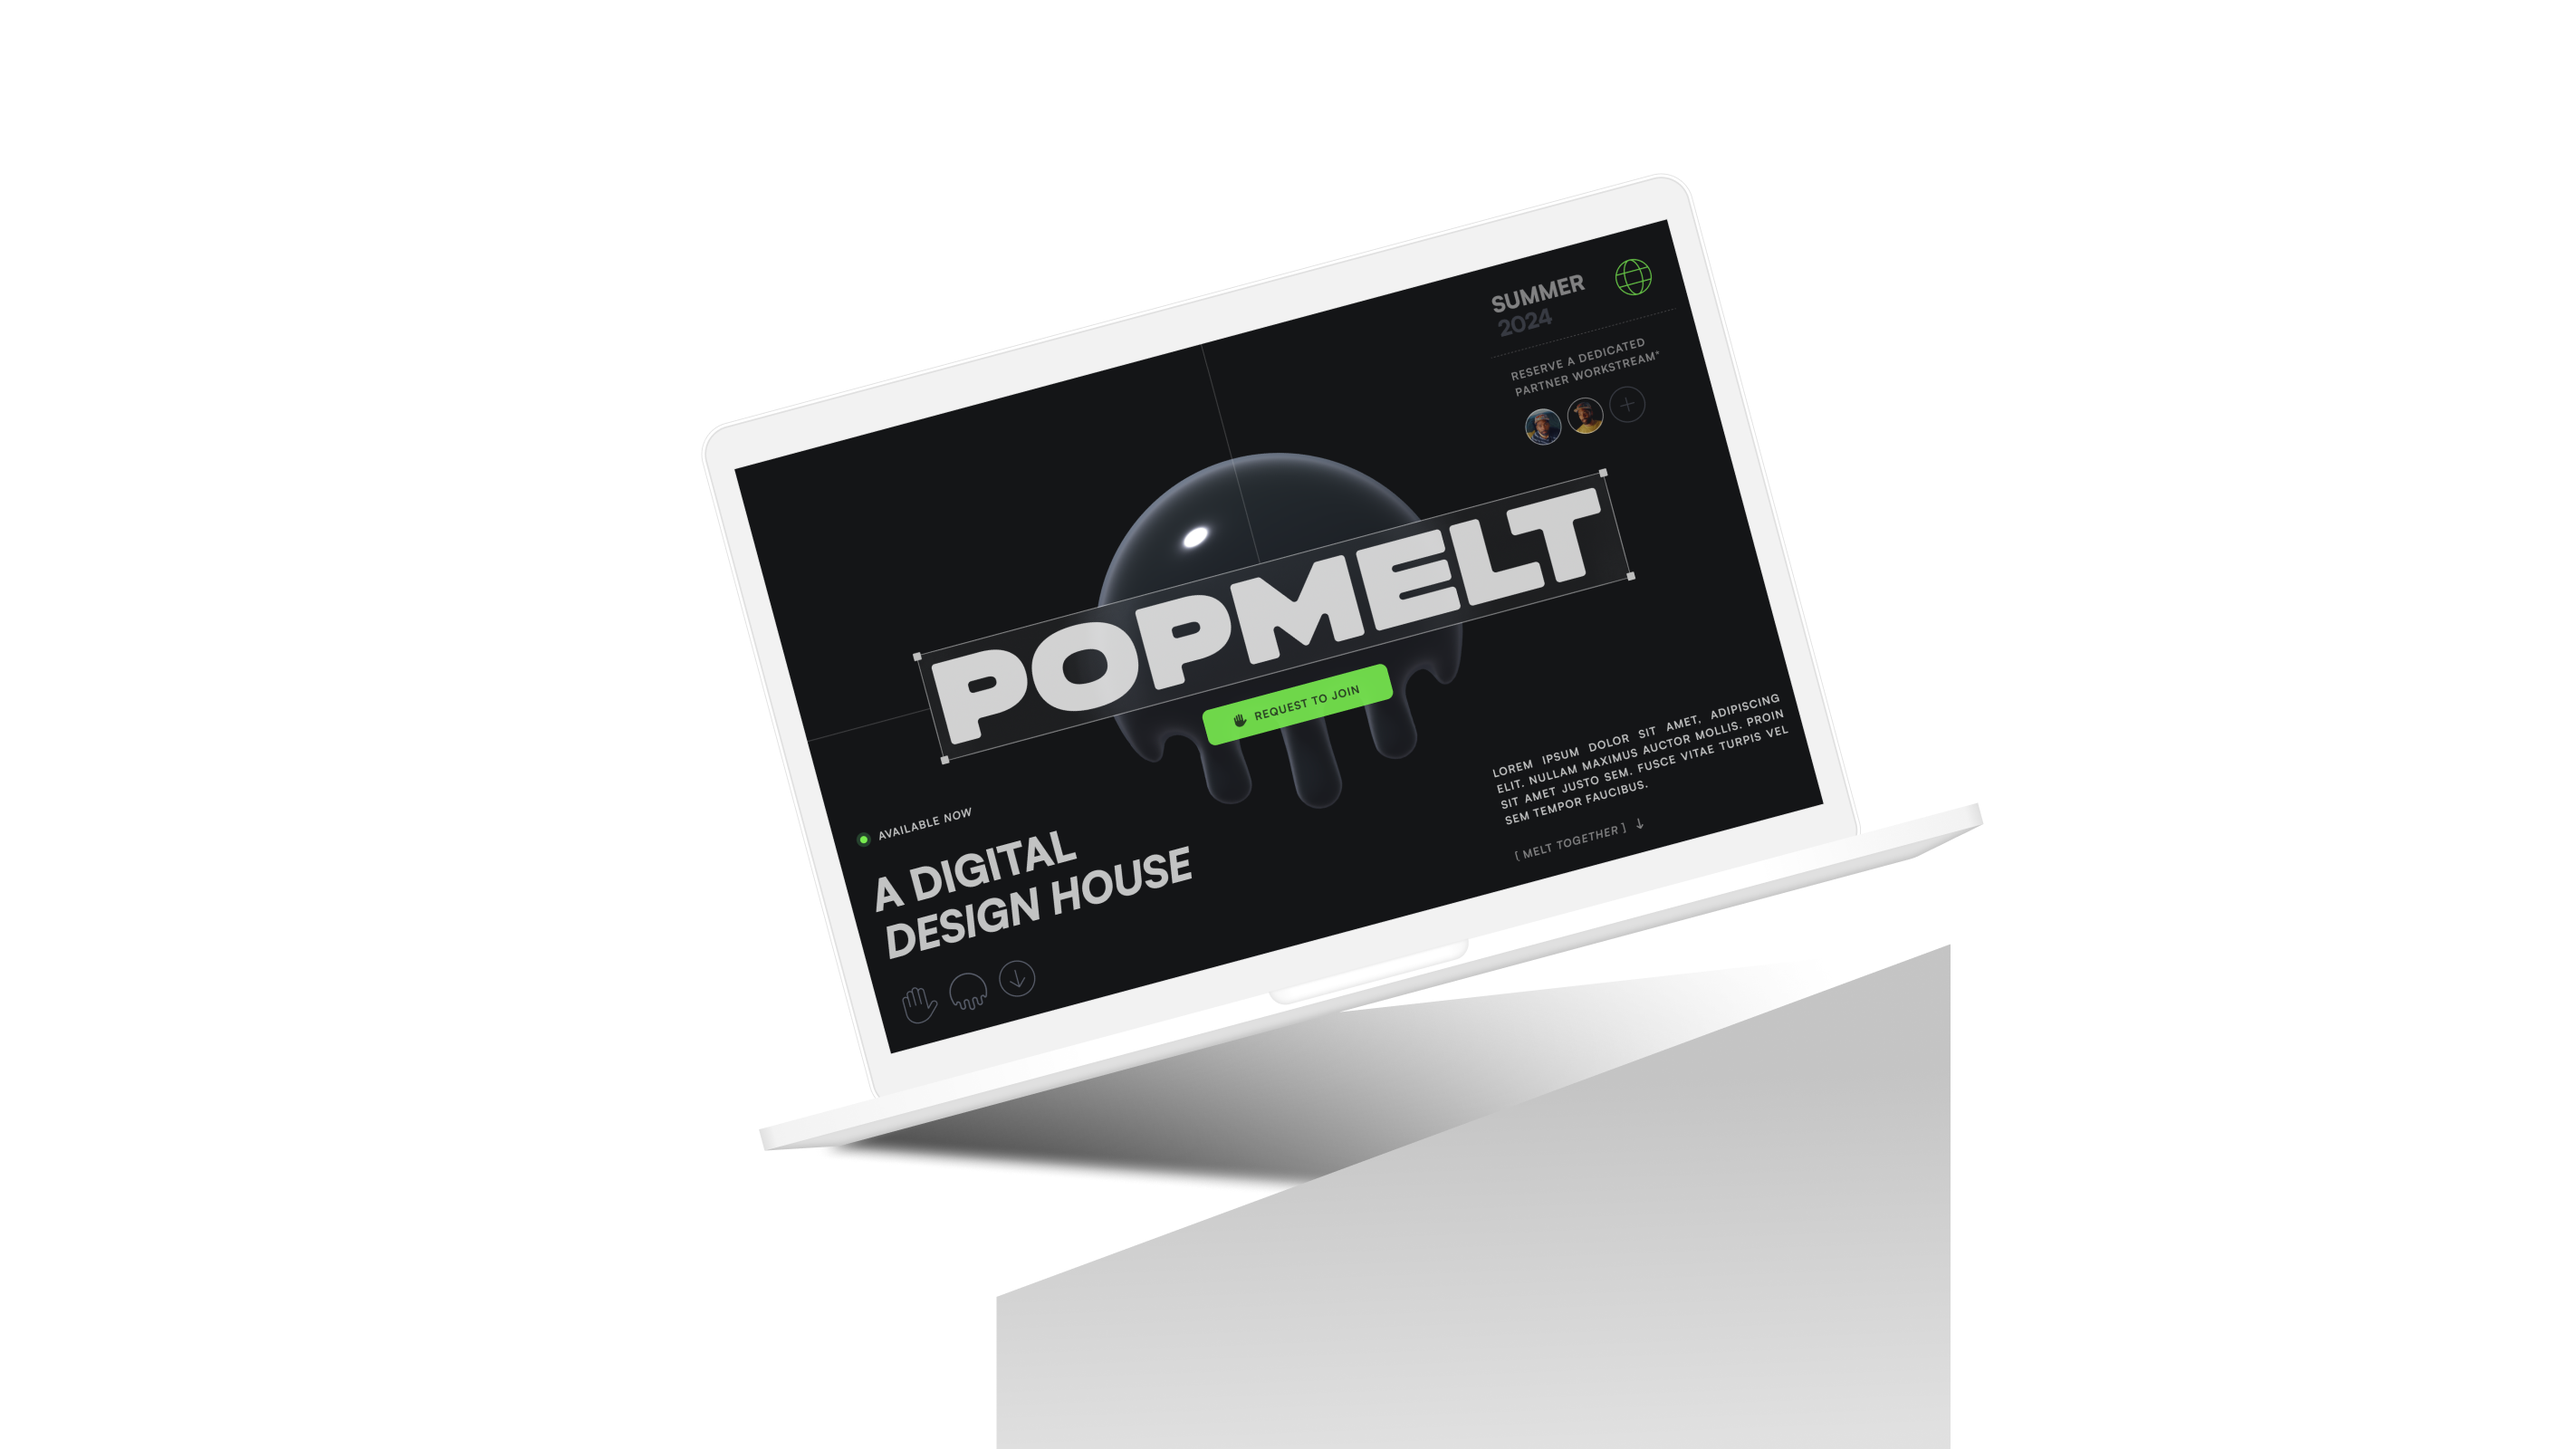
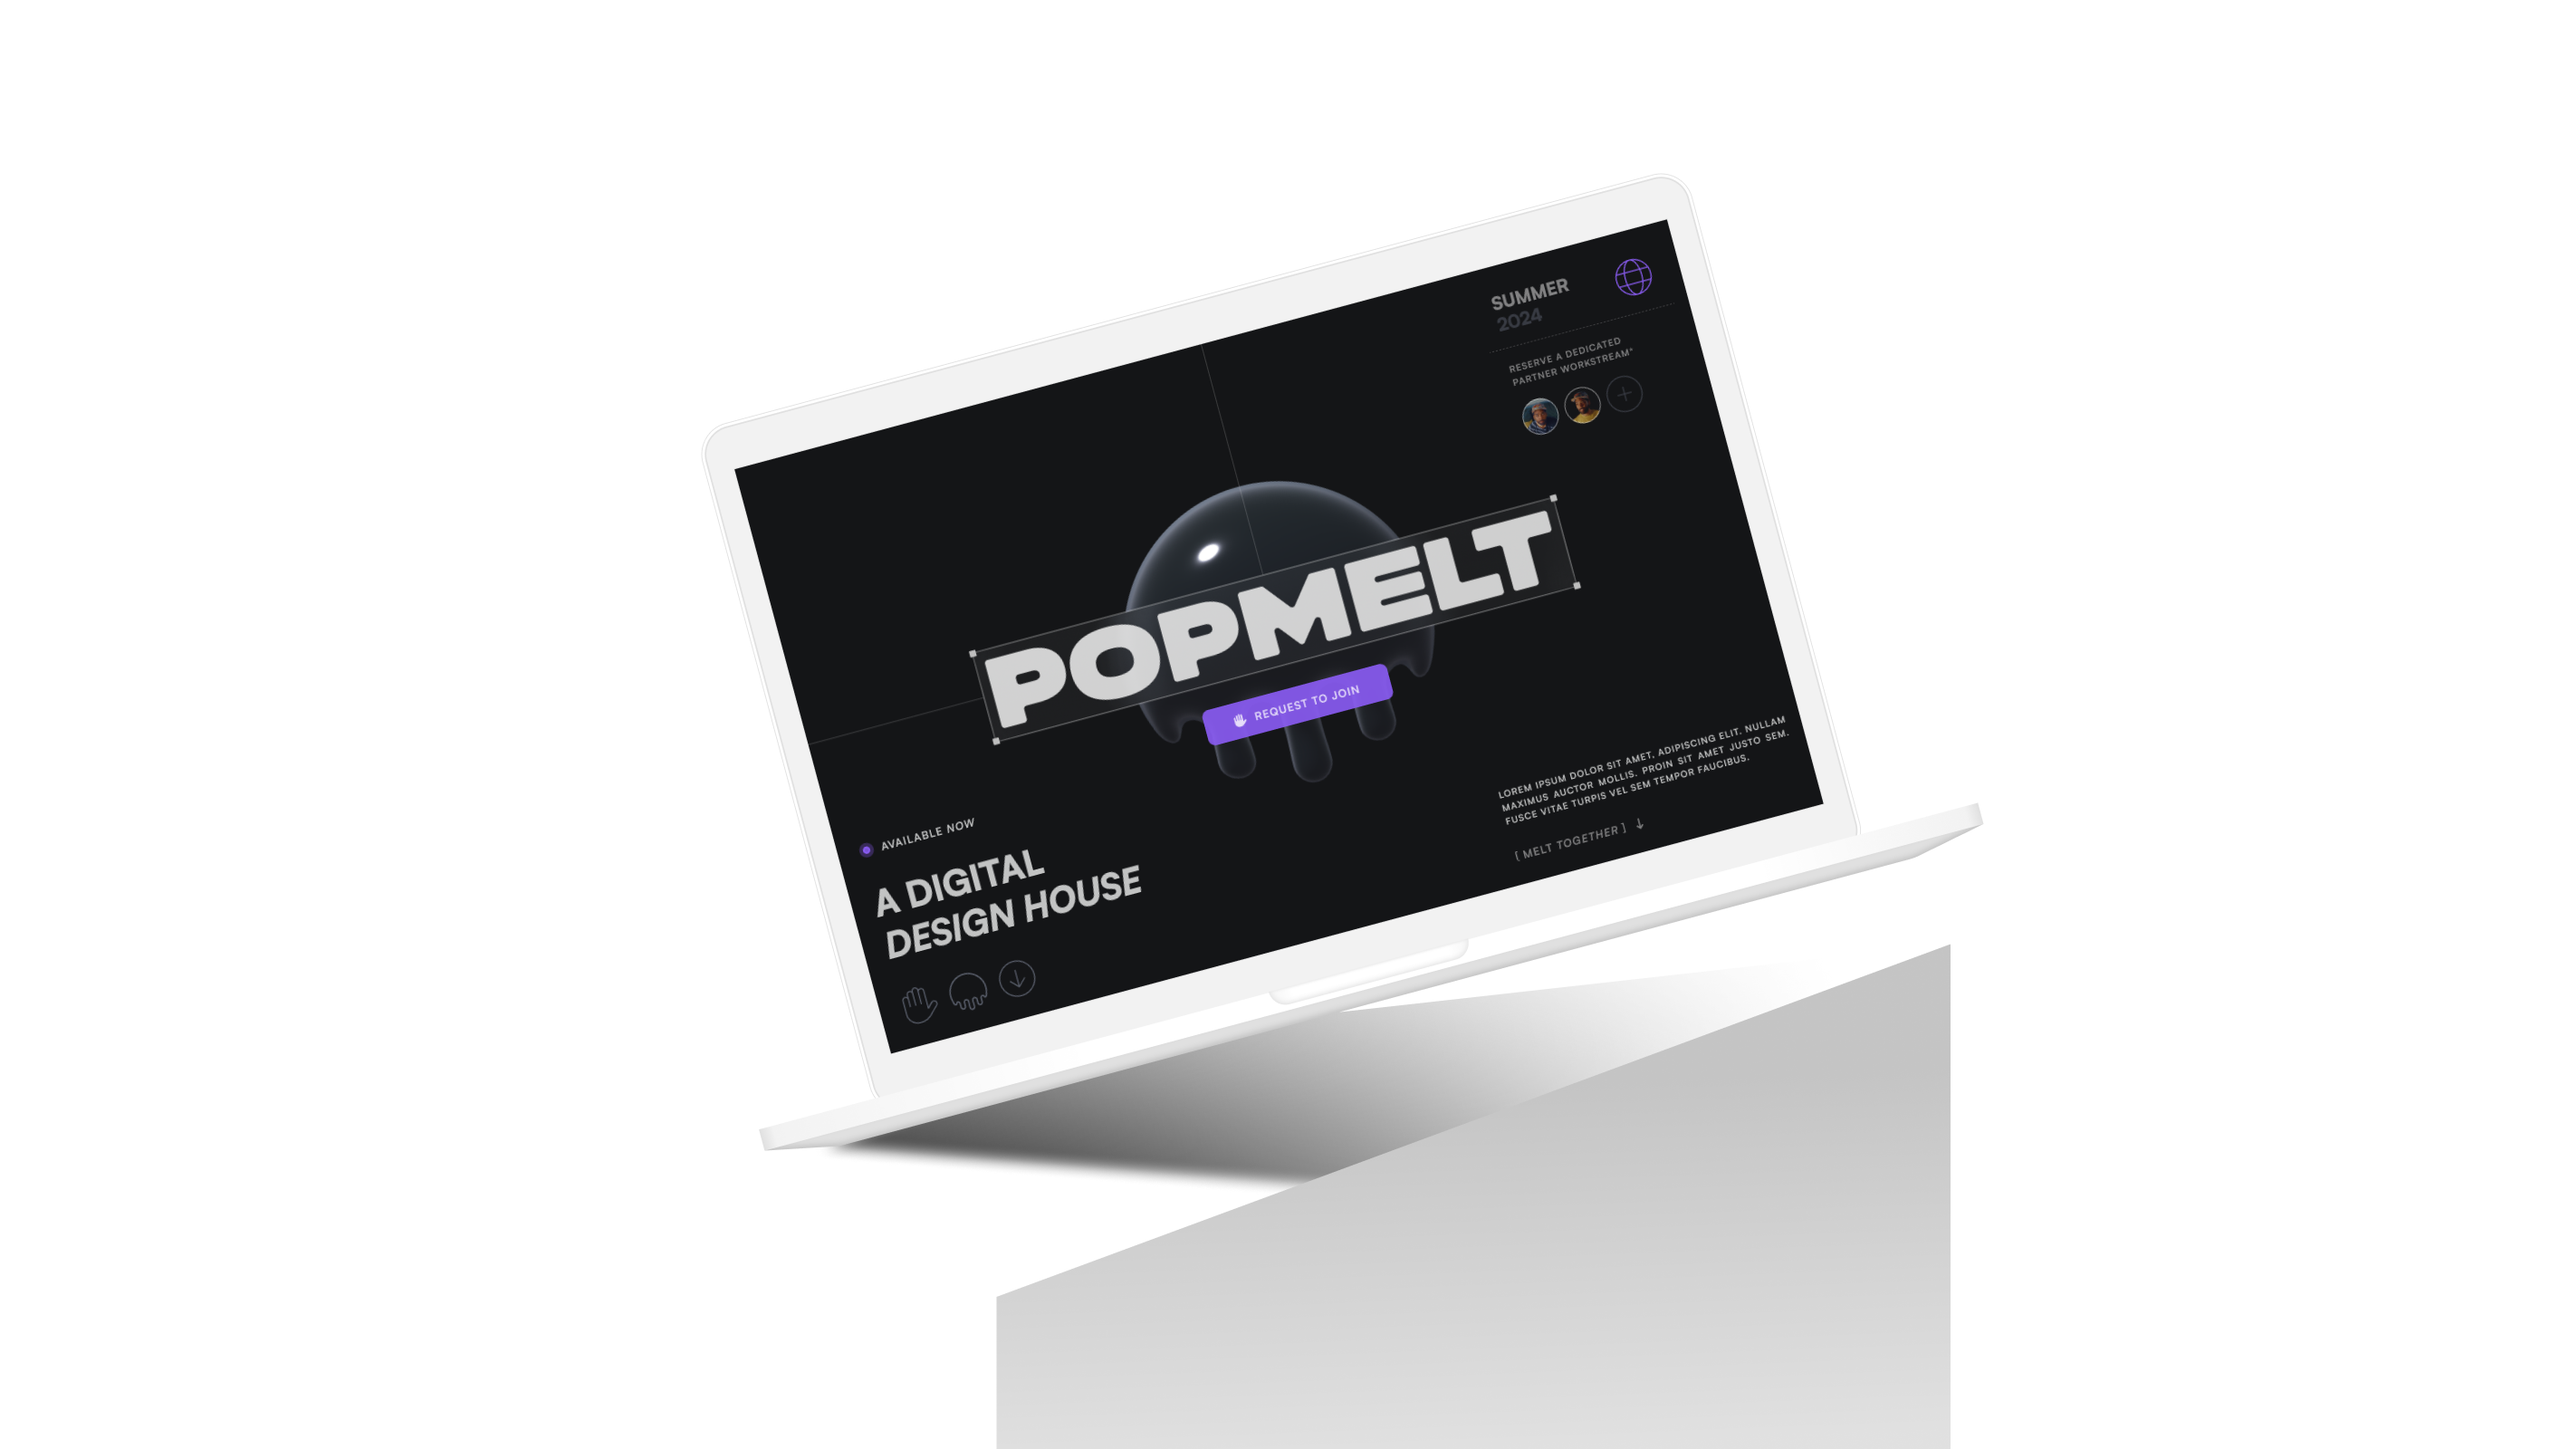
update image
theme docs updated

Changed region(s): [[0.3438, 0.1875, 0.6562, 0.5312], [0.3438, 0.5625, 0.4688, 0.6562], [0.5938, 0.5, 0.6875, 0.5625]]

diff --git a/src/styles/theme/colors-theme.css b/src/styles/theme/colors-theme.css
@@ -6,7 +6,7 @@
 }
 
 [data-icon] {
-    color: var(--c-icon-primary)
+    color: var(--c-ic)
 }
 
 /* Theme Light Palette */
@@ -25,7 +25,7 @@
     --c-border-secondary: var(--c-gray-100);
     --c-icon-primary: var(--c-gray-500);
     --c-icon-secondary: var(--c-gray-50);
-    --c-brand-primary: var(--c-violet-700);
+    --c-brand-primary: var(--c-violet-600);
 }
 
 /* Theme Dark Palette */
